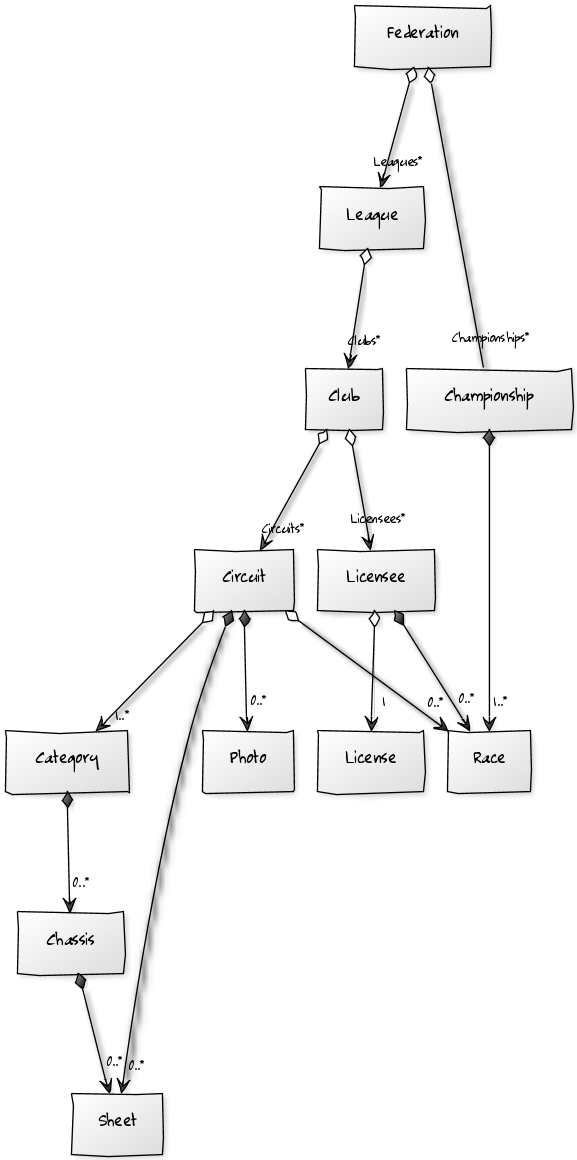
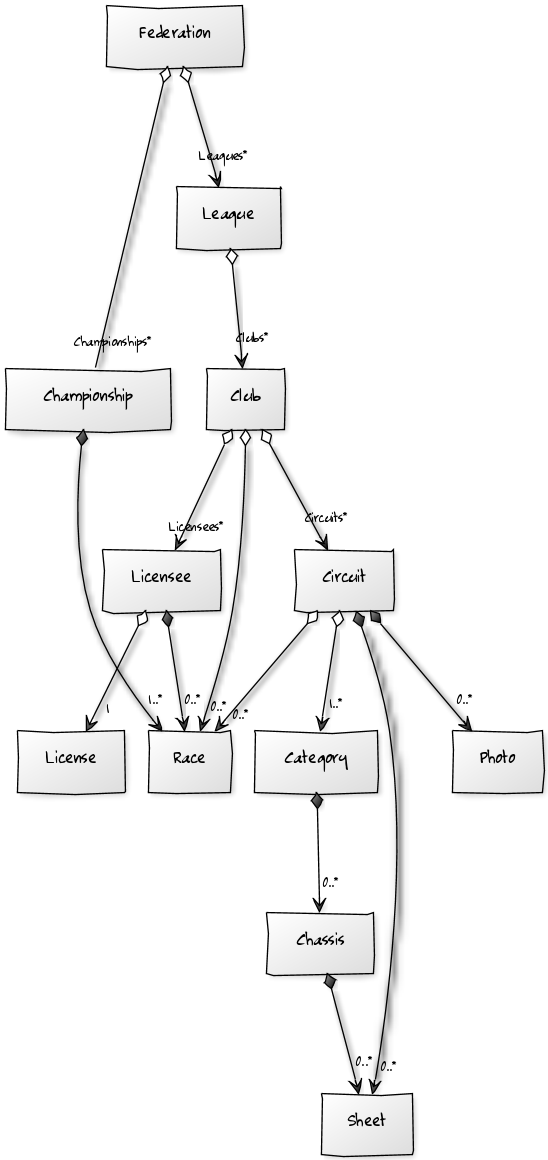
Mise à jour du diagramme UML pour ajouter la relation entre le club et la course

diff --git a/README.md b/README.md
@@ -182,5 +182,5 @@ Une idée soumise par **henry-lorient** sur le [forum de RCmag](http://rcmag.com
  * Télécharger une feuille vierge
 
 ## UML
-http://yuml.me/4edfca45
+http://yuml.me/ffceec5f
 ![Diagram UML](https://raw.github.com/Azema/rc-infoDroid/master/images/uml.png)
